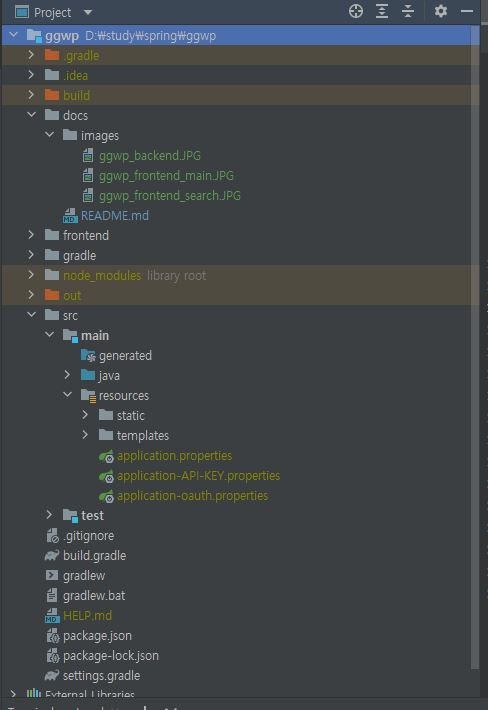
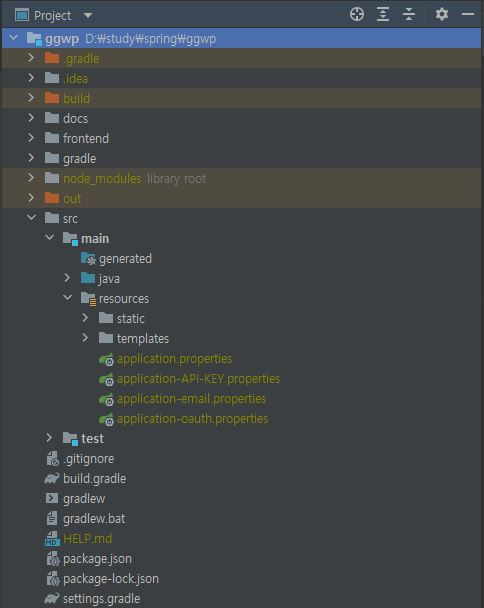
docs: README.md update

Changed region(s): [[0.0, 0.0, 1.0, 1.0]]

diff --git a/src/main/resources/templates/bbs/read.html b/src/main/resources/templates/bbs/read.html
@@ -65,8 +65,10 @@
         </div>
         <hr>
         <form action="/hello" method="post">
-            <textarea placeholder="착한말 써요!!" class="form-control content-textarea reply-submit-content" rows="3"></textarea>
-            <button type="submit" class="btn btn-outline-primary reply-submit-btn">댓글 등록</button>
+            <div>
+                <textarea placeholder="착한말 써요!!" class="form-control content-textarea reply-submit-content"
+                          rows="3"></textarea>
+                <button type="submit" class="btn btn-outline-primary reply-submit-btn">댓글 등록</button>
             </div>
         </form>
     </div>

diff --git a/docs/README.md b/docs/README.md
@@ -22,3 +22,7 @@
 **application-oauth.properties**
 
 ![oauth-properties](./images/ggwp_oauth_properties.JPG)
+
+**application-email.properties**
+
+![email-properties](./images/ggwp_email_properties.JPG)
